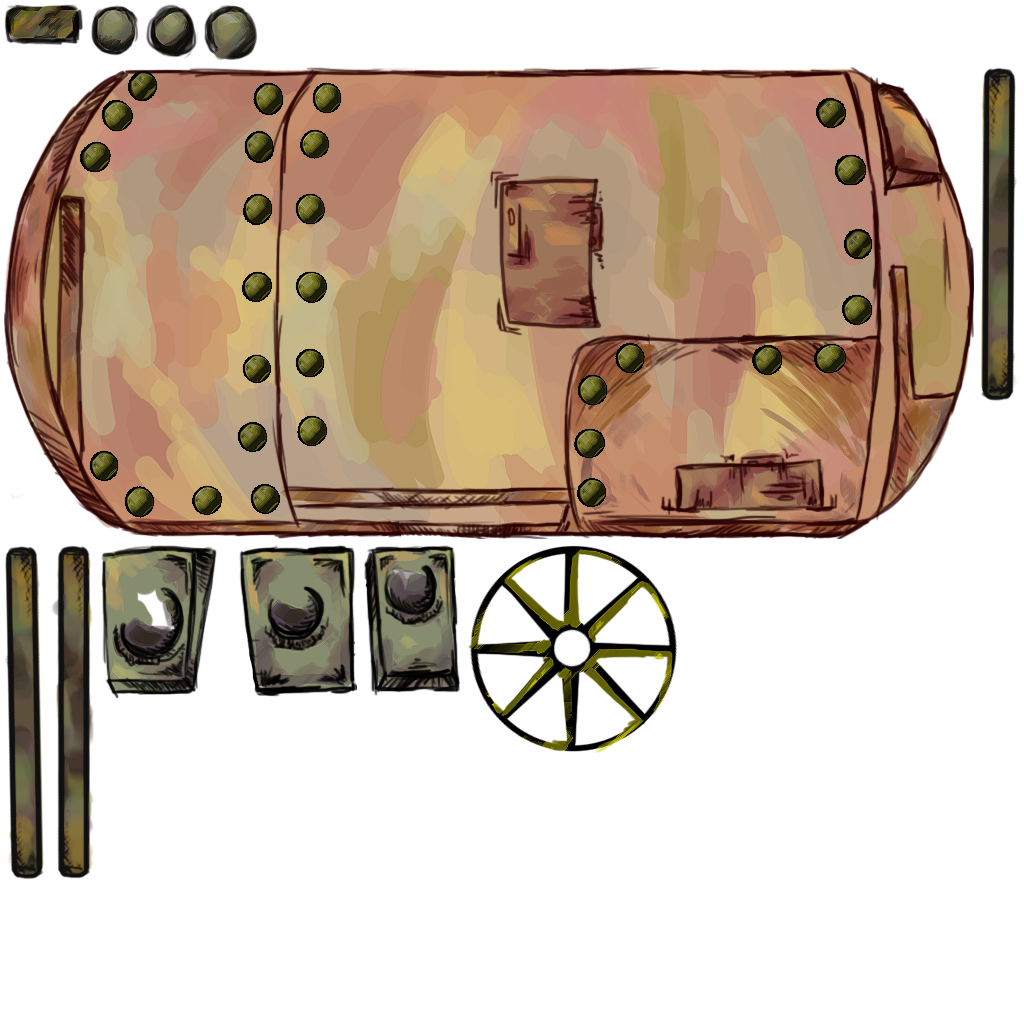
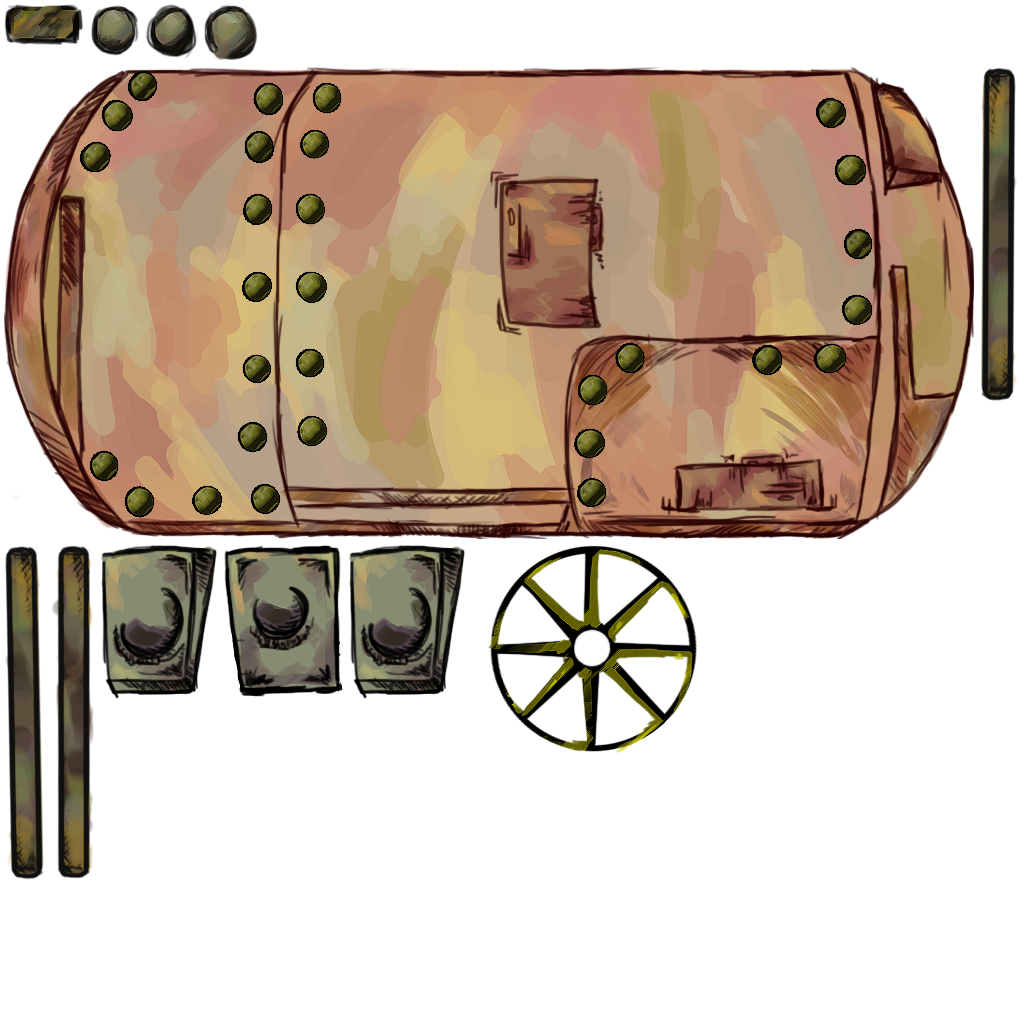
New Screw art, and now click anywhere to teleport the players to that spot!

Changed region(s): [[0.125, 0.5312, 0.6875, 0.75], [0.0938, 0.625, 0.125, 0.6562]]

diff --git a/werescrewed/src/com/blindtigergames/werescrewed/level/Level.java b/werescrewed/src/com/blindtigergames/werescrewed/level/Level.java
@@ -6,10 +6,12 @@ import java.util.Iterator;
 import aurelienribon.tweenengine.Tween;
 
 import com.badlogic.gdx.Gdx;
+import com.badlogic.gdx.Input.Buttons;
 import com.badlogic.gdx.Input.Keys;
 import com.badlogic.gdx.graphics.GL20;
 import com.badlogic.gdx.graphics.OrthographicCamera;
 import com.badlogic.gdx.math.Vector2;
+import com.badlogic.gdx.math.Vector3;
 import com.badlogic.gdx.physics.box2d.Body;
 import com.badlogic.gdx.physics.box2d.Joint;
 import com.badlogic.gdx.physics.box2d.World;
@@ -19,6 +21,7 @@ import com.blindtigergames.werescrewed.checkpoints.ProgressManager;
 import com.blindtigergames.werescrewed.collisionManager.MyContactListener;
 import com.blindtigergames.werescrewed.debug.SBox2DDebugRenderer;
 import com.blindtigergames.werescrewed.entity.Entity;
+import com.blindtigergames.werescrewed.entity.EntityType;
 import com.blindtigergames.werescrewed.entity.RootSkeleton;
 import com.blindtigergames.werescrewed.entity.Skeleton;
 import com.blindtigergames.werescrewed.entity.platforms.Platform;
@@ -26,6 +29,7 @@ import com.blindtigergames.werescrewed.entity.tween.EntityAccessor;
 import com.blindtigergames.werescrewed.entity.tween.PlatformAccessor;
 import com.blindtigergames.werescrewed.graphics.SpriteBatch;
 import com.blindtigergames.werescrewed.player.Player;
+import com.blindtigergames.werescrewed.util.Util;
 
 /**
  * @param name
@@ -91,6 +95,17 @@ public class Level {
 			player1.update( deltaTime );
 		if ( player2 != null )
 			player2.update( deltaTime );
+		
+		
+		if (Gdx.input.isTouched() || Gdx.input.isButtonPressed(Buttons.LEFT)) {
+			Vector3 cursorPosition = new Vector3(Gdx.input.getX(), Gdx.input.getY(), 0);
+			camera.camera.unproject(cursorPosition);
+			cursorPosition.mul( Util.PIXEL_TO_BOX );
+			if ( player1 != null && player2 != null ){
+				player1.body.setTransform( cursorPosition.x, cursorPosition.y, 0 );
+				player2.body.setTransform( cursorPosition.x, cursorPosition.y, 0 );
+			}
+		}
 
 		root.update( deltaTime );
 
@@ -127,6 +142,9 @@ public class Level {
 		// draw all background of skeletons before everything
 		for ( Skeleton skel : skelBGList ) {
 			if ( skel.isActive( ) ) {
+				if ( skel.entityType == EntityType.ROOTSKELETON){
+					skel.isActive( );
+				}
 				if ( skel.bgSprite != null ) {
 					if ( camera.getBounds( ).overlaps(
 							skel.bgSprite.getBoundingRectangle( ) ) ) {
@@ -138,6 +156,9 @@ public class Level {
 		}
 		for ( Entity e : entityBGList ) {
 			if ( e.isActive( ) ) {
+				if ( e.entityType == EntityType.ROOTSKELETON){
+					e.isActive( );
+				}
 				e.drawBGDecals( batch, camera.getBounds( ) );
 			}
 		}

diff --git a/werescrewed/src/com/blindtigergames/werescrewed/level/LevelFactory.java b/werescrewed/src/com/blindtigergames/werescrewed/level/LevelFactory.java
@@ -89,6 +89,8 @@ public class LevelFactory {
 	protected static final String imageTag = "image";
 	protected static final String gleedImageTag = "image";
 	protected static final String atlasTag = "atlas";
+	
+	private final String robotTexBG = "/levels/alphabot/alphabot-interior.png";
 
 	public LevelFactory( ) {
 		reader = new XmlReader( );
@@ -583,8 +585,8 @@ public class LevelFactory {
 			level.root = new RootSkeleton( item.name, item.pos, null,
 					level.world );
 			// DELETE THESE TWO LINES WHEN THE STAGE WORKS PROPERLY WITH GLEED
-			level.skelBGList.add( level.root );
-			level.skelFGList.add( level.root );
+			level.skelBGList.add(0, level.root );
+			level.skelFGList.add(0, level.root );
 			skeletons.put( item.name, level.root );
 			entities.put( item.name, level.root );
 
@@ -604,7 +606,7 @@ public class LevelFactory {
 						.texBackground(
 								WereScrewedGame.manager
 										.get( WereScrewedGame.dirHandle
-												+ "/levels/alphabot/alphabot_texture_skin.png",
+												+ robotTexBG,
 												Texture.class ) );
 			} else {
 				skeleBuilder
@@ -613,7 +615,7 @@ public class LevelFactory {
 						.texBackground(
 								WereScrewedGame.manager
 										.get( WereScrewedGame.dirHandle
-												+ "/levels/alphabot/alphabot_texture_skin.png",
+												+ robotTexBG,
 												Texture.class ) ).fg( )
 						.setVerts( polySprite );
 				// .texForeground( WereScrewedGame.manager.get
@@ -858,7 +860,7 @@ public class LevelFactory {
 		pb.name( item.name ).position( item.pos ).tileSet( "alphabot32" )
 				.properties( item.props );
 		pb.texture( WereScrewedGame.manager.get( WereScrewedGame.dirHandle
-				+ "/levels/alphabot/alphabot_texture_skin.png", Texture.class ) );
+				+ robotTexBG, Texture.class ) );
 
 		if ( item.props.containsKey( "gravscale" ) ) {
 			float gravScale = Float.parseFloat( item.props.get( "gravscale" ) );

diff --git a/werescrewed/src/com/blindtigergames/werescrewed/entity/screws/Screw.java b/werescrewed/src/com/blindtigergames/werescrewed/entity/screws/Screw.java
@@ -54,7 +54,7 @@ public class Screw extends Entity {
 	protected ScrewType screwType;
 	public ArrayList< Joint > extraJoints;
 	
-	private static TextureRegion screwTexRegion = WereScrewedGame.manager.getAtlas( "common-textures" ).findRegion( "flat_head_circular" );
+	
 
 	/**
 	 * constructor to use if you want a cosmetic screw
@@ -69,7 +69,7 @@ public class Screw extends Entity {
 	public Screw( String name, Vector2 pos, Entity entity, World world ) {
 		super( name, pos, null, null, false );
 		this.world = world;
-		this.sprite = constructSprite(screwTexRegion);
+		this.sprite = constructSprite(WereScrewedGame.manager.getAtlas( "common-textures" ).findRegion( "flat_head_circular" ));
 		this.entity = entity;
 		this.entityAngle = entity.getAngle( );
 		screwType = ScrewType.SCREW_COSMETIC;
@@ -88,9 +88,10 @@ public class Screw extends Entity {
 	 * @param pos
 	 * @param tex
 	 */
-	public Screw( String name, Vector2 pos, Texture tex ) {
+	public Screw( String name, Vector2 pos, TextureRegion tex ) {
 		super( name, pos, null, null, false );
-		this.sprite = constructSprite(screwTexRegion);
+		if (tex == null)tex = WereScrewedGame.manager.getAtlas( "common-textures" ).findRegion( "flat_head_circular" );
+		this.sprite = constructSprite(tex);
 		entityType = EntityType.SCREW;
 	}
 

diff --git a/werescrewed/src/com/blindtigergames/werescrewed/entity/screws/PuzzleScrew.java b/werescrewed/src/com/blindtigergames/werescrewed/entity/screws/PuzzleScrew.java
@@ -2,6 +2,7 @@ package com.blindtigergames.werescrewed.entity.screws;
 
 import java.util.ArrayList;
 
+import com.badlogic.gdx.graphics.g2d.TextureRegion;
 import com.badlogic.gdx.math.Vector2;
 import com.badlogic.gdx.physics.box2d.BodyDef;
 import com.badlogic.gdx.physics.box2d.BodyDef.BodyType;
@@ -35,11 +36,13 @@ public class PuzzleScrew extends Screw {
 	private SimpleFrameAnimator screwUIAnimator;
 	private int startFrame = 15;
 	private int lastMotionFrame = 14;
+	
+	private static TextureRegion screwTex = WereScrewedGame.manager.getAtlas( "common-textures" ).findRegion( "flat_head_circular" );
 
 	public PuzzleScrew( String name, Vector2 pos, int max, Entity entity,
 			World world, int startDepth, boolean resetable,
 			Vector2 detachDirection ) {
-		super( name, pos, null );
+		super( name, pos, screwTex );
 		this.world = world;
 		this.detachDirection = detachDirection;
 		this.entity = entity;
@@ -83,7 +86,7 @@ public class PuzzleScrew extends Screw {
 
 	public PuzzleScrew( String name, Vector2 pos, int max, World world,
 			int startDepth, boolean resetable ) {
-		super( name, pos, null );
+		super( name, pos, screwTex );
 		this.world = world;
 		maxDepth = max;
 		this.startDepth = depth = startDepth;

diff --git a/werescrewed/src/com/blindtigergames/werescrewed/entity/screws/StructureScrew.java b/werescrewed/src/com/blindtigergames/werescrewed/entity/screws/StructureScrew.java
@@ -2,6 +2,7 @@ package com.blindtigergames.werescrewed.entity.screws;
 
 import java.util.ArrayList;
 
+import com.badlogic.gdx.graphics.g2d.TextureRegion;
 import com.badlogic.gdx.math.Vector2;
 import com.badlogic.gdx.physics.box2d.BodyDef;
 import com.badlogic.gdx.physics.box2d.BodyDef.BodyType;
@@ -35,10 +36,12 @@ public class StructureScrew extends Screw {
 	private SimpleFrameAnimator screwUIAnimator;
 	private int startFrame = 15;
 	private int lastMotionFrame = 14;
+	
+	private static TextureRegion screwTex = WereScrewedGame.manager.getAtlas( "common-textures" ).findRegion( "flat_head_circular" );
 
 	public StructureScrew( String name, Vector2 pos, int max, Entity entity,
 			World world, Vector2 detachDirection ) {
-		super( name, pos, null );
+		super( name, pos, screwTex );
 		this.world = world;
 		this.detachDirection = detachDirection;
 		this.entity = entity;
@@ -80,7 +83,7 @@ public class StructureScrew extends Screw {
 
 	public StructureScrew( String name, Vector2 pos, int max, World world,
 			Vector2 detachDirection ) {
-		super( name, pos, null );
+		super( name, pos, screwTex );
 		this.world = world;
 		this.detachDirection = detachDirection;
 		if ( detachDirection != null

diff --git a/werescrewed/src/com/blindtigergames/werescrewed/entity/screws/StrippedScrew.java b/werescrewed/src/com/blindtigergames/werescrewed/entity/screws/StrippedScrew.java
@@ -2,7 +2,9 @@ package com.blindtigergames.werescrewed.entity.screws;
 
 import java.util.ArrayList;
 
+import com.blindtigergames.werescrewed.WereScrewedGame;
 import com.blindtigergames.werescrewed.graphics.SpriteBatch;
+import com.badlogic.gdx.graphics.g2d.TextureRegion;
 import com.badlogic.gdx.math.MathUtils;
 import com.badlogic.gdx.math.Vector2;
 import com.badlogic.gdx.physics.box2d.BodyDef;
@@ -33,8 +35,10 @@ public class StrippedScrew extends Screw {
 	 * @param entity
 	 * @param world
 	 */
+	private static TextureRegion screwTex = WereScrewedGame.manager.getAtlas( "common-textures" ).findRegion( "flat_head_circular2" );
+	
 	public StrippedScrew( String name, Vector2 pos, Entity entity, World world, Vector2 detachDirection ) {
-		super( name, pos, null );
+		super( name, pos, screwTex );
 		this.world = world;
 		this.detachDirection = detachDirection;
 		this.entity = entity;
@@ -68,7 +72,7 @@ public class StrippedScrew extends Screw {
 	 * @param world
 	 */
 	public StrippedScrew( String name, Vector2 pos, World world) {
-		super( name, pos, null );
+		super( name, pos, screwTex );
 		this.world = world;
 		this.depth = 0;
 		screwType = ScrewType.SCREW_STRIPPED;

diff --git a/werescrewed/src/com/blindtigergames/werescrewed/WereScrewedGame.java b/werescrewed/src/com/blindtigergames/werescrewed/WereScrewedGame.java
@@ -90,14 +90,10 @@ public class WereScrewedGame extends Game {
 //		float deltaTime = Gdx.graphics.getDeltaTime( );
 //		fpsTime += deltaTime;
 //		if ( fpsTime >= oneOverTargetFrameRate ){
-//			//Gdx.app.log( "FPS", ""+fpsTime+", "+ oneOverTargetFrameRate);
 //			fpsTime = fpsTime - oneOverTargetFrameRate;
-//			//Gdx.app.log( "Rendering", "Rendering");
 //			super.render( );
 //		}else{
 //			return;
-//			//fpsTime += deltaTime;
-//			//Gdx.app.log( "Not rendering", "");
 //		}
 	}
 	

diff --git a/werescrewed/src/com/blindtigergames/werescrewed/screens/AlphaScreen.java b/werescrewed/src/com/blindtigergames/werescrewed/screens/AlphaScreen.java
@@ -94,7 +94,7 @@ public class AlphaScreen extends Screen {
 		// head: 480f,  6688f
 		// right arm: 2600f, 6000f
 		
-		Vector2 spawnPos = new Vector2(-128, 3712);
+		Vector2 spawnPos = new Vector2(0,0);
 
 		if ( level.player1 == null ) {
 			level.player1 = new PlayerBuilder( ).world( level.world )

diff --git a/werescrewed-desktop/src/com/blindtigergames/werescrewed/Main.java b/werescrewed-desktop/src/com/blindtigergames/werescrewed/Main.java
@@ -11,6 +11,7 @@ public class Main {
 		cfg.useGL20 = true;
 		cfg.width = 1280;
 		cfg.height = 720;
+		cfg.vSyncEnabled = true;
 
 		
 		//cfg.useCPUSynch = false;
